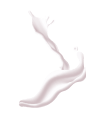
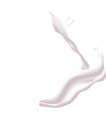
добавляет миксины, webp и на background 2x

Changed region(s): [[0.2093, 0.0902, 0.907, 0.812], [0.9767, 0.4812, 1.0, 0.5113], [0.8605, 0.3609, 0.8837, 0.391]]

diff --git a/src/sass/layout/_how-its-made.scss b/src/sass/layout/_how-its-made.scss
@@ -1,4 +1,15 @@
-.how-its-made-wrapper{
+@mixin Font-ff-fw-lh-fs-c($ff, $fw, $lh, $fs, $c) {
+  font-family: $ff;
+  font-weight: $fw;
+  line-height: $lh;
+  font-size: $fs;
+  color: $c;
+}
+$color-title-font: #d41443;
+$black-color-text: #000000;
+$gray-color-text: #907e82;
+
+.how-its-made-wrapper {
   padding-bottom: 139px;
 }
 
@@ -8,12 +19,37 @@
   margin-right: auto;
   background-color: #fff5f6;
   padding-top: 125px;
+  background-repeat: no-repeat;
+  background-size: auto 133px;
+  background-image: url('../images/how-its-made/how-its-made-mobile1.png'),
+    url('../images/how-its-made/how-its-made-mobile2.png');
+  background-position: 0px 766px, 100% 766px;
+  @media screen and (min-device-pixel-ratio: 2),
+    screen and (min-resolution: 192dpi),
+    screen and (min-resolution: 2dppx) {
+    background-image: url('../images/how-its-made/how-its-made-mobile1@2x.png'),
+      url('../images/how-its-made/how-its-made-mobile2@2x.png');
+  }
   @media screen and (min-width: 768px) {
     padding-top: 130px;
+    background-image: none;
   }
   @media screen and (min-width: 1280px) {
     padding-top: 125px;
+    background-position: 0px 342px, 100% 342px;
+    background-size: auto 534px;
+    background-image: url('../images/how-its-made/how-its-made-desktop1.png'),
+      url('../images/how-its-made/how-its-made-desktop2.png');
+    @media screen and (min-device-pixel-ratio: 2),
+      screen and (min-resolution: 192dpi),
+      screen and (min-resolution: 2dppx) {
+      background-image: url('../images/how-its-made/how-its-made-desktop1@2x.png'),
+        url('../images/how-its-made/how-its-made-desktop2@2x.png');
+    }
   }
+  // @media screen and (min-width: 1600px) {
+  //   background-image: none;
+  // }
 }
 
 // Контейнер для секции
@@ -36,38 +72,17 @@
     max-width: 1280px;
   }
 }
-//  background
-.how-its-made .container {
-  // margin-left: auto;
-  // margin-right: auto;
-  background-repeat: no-repeat;
-  // padding-right: -20px;
-  // padding-left: -20px;
-  background-position: 0px 641px;
-  background-image: url(../images/how-its-made/how-its-made-mobile.png);
-  @media screen and (min-width: 768px) {
-    background-image: none;
-  }
-  @media screen and (min-width: 1280px) {
-    background-position: 0px 217px;
-    background-image: url(../images/how-its-made/how-its-made-desktop.png);
-  }
-}
 // Стили для названия секции
 .how-its-made-title {
+  @include Font-ff-fw-lh-fs-c($h-font, normal, 1.15, 34px, $color-title-font);
   margin-top: 0px;
   margin-bottom: 26px;
   padding-left: 40px;
   padding-right: 40px;
 
-  font-family: Titan One;
-  font-size: 34px;
-  line-height: 1.15;
-
   text-align: center;
   letter-spacing: 0.04em;
   text-transform: uppercase;
-  color: #d41443;
   @media screen and (min-width: 768px) {
     margin-bottom: 50px;
     font-size: 48px;
@@ -80,22 +95,16 @@
     letter-spacing: 0.06em;
   }
 }
-
 // Стили для подназвания секции
 .how-its-made-subtitle {
+  @include Font-ff-fw-lh-fs-c($h-font, normal, 1.16, 18px, #ffa5ba);
   margin-top: 0px;
   margin-bottom: 15px;
-
   padding-left: 40px;
   padding-right: 40px;
 
-  font-family: Titan One;
-  font-size: 18px;
-  line-height: 1.16;
   text-align: center;
   text-transform: uppercase;
-  color: #ffa5ba;
-
   @media screen and (min-width: 768px) {
     font-size: 26px;
     line-height: 1.15;
@@ -107,11 +116,7 @@
   }
 }
 //  Стили для картинки
-
 .foto-cow {
-  // @media screen and (max-width: 319px) {
-  //   width: 100%;
-  // }
   @media screen and (max-width: 767px) {
     margin-left: auto;
     margin-right: auto;
@@ -135,20 +140,19 @@
   padding-left: 30px;
   padding-right: 30px;
   @media screen and (min-width: 768px) {
+    width: 48.7%;
     padding-top: 50px;
-
+    padding-left: 0px;
+    padding-right: 0px;
+  }
+  @media screen and (min-width: 1280px) {
+    width: 43.9%;
   }
 }
-
 // Стили для текста
 .how-its-made-discription1 {
+  @include Font-ff-fw-lh-fs-c($main-font, 500, 1.58, 12px, $black-color-text);
   margin-bottom: 30px;
-  font-family: DM Sans;
-  font-weight: 500;
-  font-size: 12px;
-  line-height: 1.58;
-  color: #000000;
-
   @media screen and (min-width: 768px) {
     font-size: 14px;
     line-height: 1.78;
@@ -178,11 +182,7 @@
 
 .how-its-made-discription2,
 .how-its-made-discription3 {
-  font-family: DM Sans;
-  font-weight: 500;
-  font-size: 12px;
-  line-height: 1.58;
-  color: #907e82;
+  @include Font-ff-fw-lh-fs-c($main-font, 500, 1.58, 12px, $gray-color-text);
   @media screen and (min-width: 768px) {
     font-size: 14px;
     line-height: 1.78;
@@ -200,15 +200,16 @@
   align-items: center;
   height: 44px;
   border: none;
-  // padding: 11px 37px;
+  @include Font-ff-fw-lh-fs-c(
+    $main-font,
+    bold,
+    1.33,
+    15.8px,
+    $color-title-font
+  );
   padding-right: 37px;
   padding-left: 37px;
   border-radius: 22px;
-  font-family: DM Sans;
-  font-weight: bold;
-  font-size: 15.8px;
-  line-height: 1.33;
-  color: #d41443;
   background-color: #ffffff;
 }
 //  Свг в кнопке
@@ -218,14 +219,22 @@
   margin-left: 10px;
 }
 //  стили для списка
-
 .how-its-made-list {
   padding-right: 50px;
   margin-top: 39px;
+  background-position: 0px 0px, 0px 195px, 0px 389px;
+  background-size: 33px 50px, 50px 50px, 44px 50px;
   background-repeat: no-repeat;
   background-image: url(../images/how-its-made/glass.png),
     url(../images/how-its-made/apple.png), url(../images/how-its-made/heart.png);
-  background-position: 0px 0px, 0px 195px, 0px 389px;
+
+  @media screen and (min-device-pixel-ratio: 2),
+    screen and (min-resolution: 192dpi),
+    screen and (min-resolution: 2dppx) {
+    background-image: url(../images/how-its-made/glass@2x.png),
+      url(../images/how-its-made/apple@2x.png),
+      url(../images/how-its-made/heart@2x.png);
+  }
   @media screen and (min-width: 768px) {
     padding-right: 0px;
     display: flex;
@@ -238,30 +247,21 @@
   }
 }
 .how-its-made-number {
+  @include Font-ff-fw-lh-fs-c($h-font, normal, 1.14, 36px, $color-title-font);
   display: block;
   margin-bottom: 13px;
-  font-family: Titan One;
-  font-size: 36px;
-  line-height: 1.14;
   letter-spacing: 0.04em;
   text-transform: uppercase;
-  color: #d41443;
 
   @media screen and (min-width: 768px) {
     font-size: 48px;
-    // line-height: 1.14;
   }
   @media screen and (min-width: 1280px) {
     font-size: 58px;
-    // line-height: 1.14;
   }
 }
 .how-its-made-text {
-  font-family: DM Sans;
-  font-weight: bold;
-  font-size: 12px;
-  line-height: 1.66;
-  color: #000000;
+  @include Font-ff-fw-lh-fs-c($main-font, bold, 1.66, 12px, $black-color-text);
   @media screen and (min-width: 768px) {
     font-size: 14px;
     line-height: 1.71;
@@ -287,7 +287,6 @@
     padding-top: 90px;
   }
 }
-
 .how-its-made-item:not(:last-child) {
   margin-bottom: 38px;
   @media screen and (min-width: 768px) {

diff --git a/src/partials/how-its-made.html b/src/partials/how-its-made.html
@@ -5,7 +5,26 @@
     </div>
 
     <div class="how-its-made-title-picture-text">
-      <picture aria-label="image of cow and milk">
+
+     <picture aria-label="image of cow and milk">
+
+     <source srcset="./images/how-its-made/cow-desktop.webp 1x, 
+     ./images/how-its-made/cow-desktop@2x.webp 2x"
+     media="(min-width: 1280px)"
+     type="image/webp"/>
+
+      <source
+      srcset="./images/how-its-made/cow-tablet.webp 1x,
+      ./images/how-its-made/cow-tablet@2x.webp 2x"
+      media="(min-width: 768px)" 
+      type="image/webp"/>
+
+       <source 
+       srcset="./images/how-its-made/cow-mobile.webp 1x,
+       ./images/how-its-made/cow-mobile@2x.webp 2x" 
+      media="(min-width: 320px)" 
+      type="image/webp"/>
+
         <source
           srcset="
             ./images/how-its-made/cow-desktop.png    1x,
@@ -33,7 +52,7 @@
 
         <img
           class="foto-cow"
-          src="./images/how-its-made/cow-mobile.png"
+          src="./images/how-its-made/cow-tablet.png"
           alt="image of cow and milk"
         />
       </picture>
